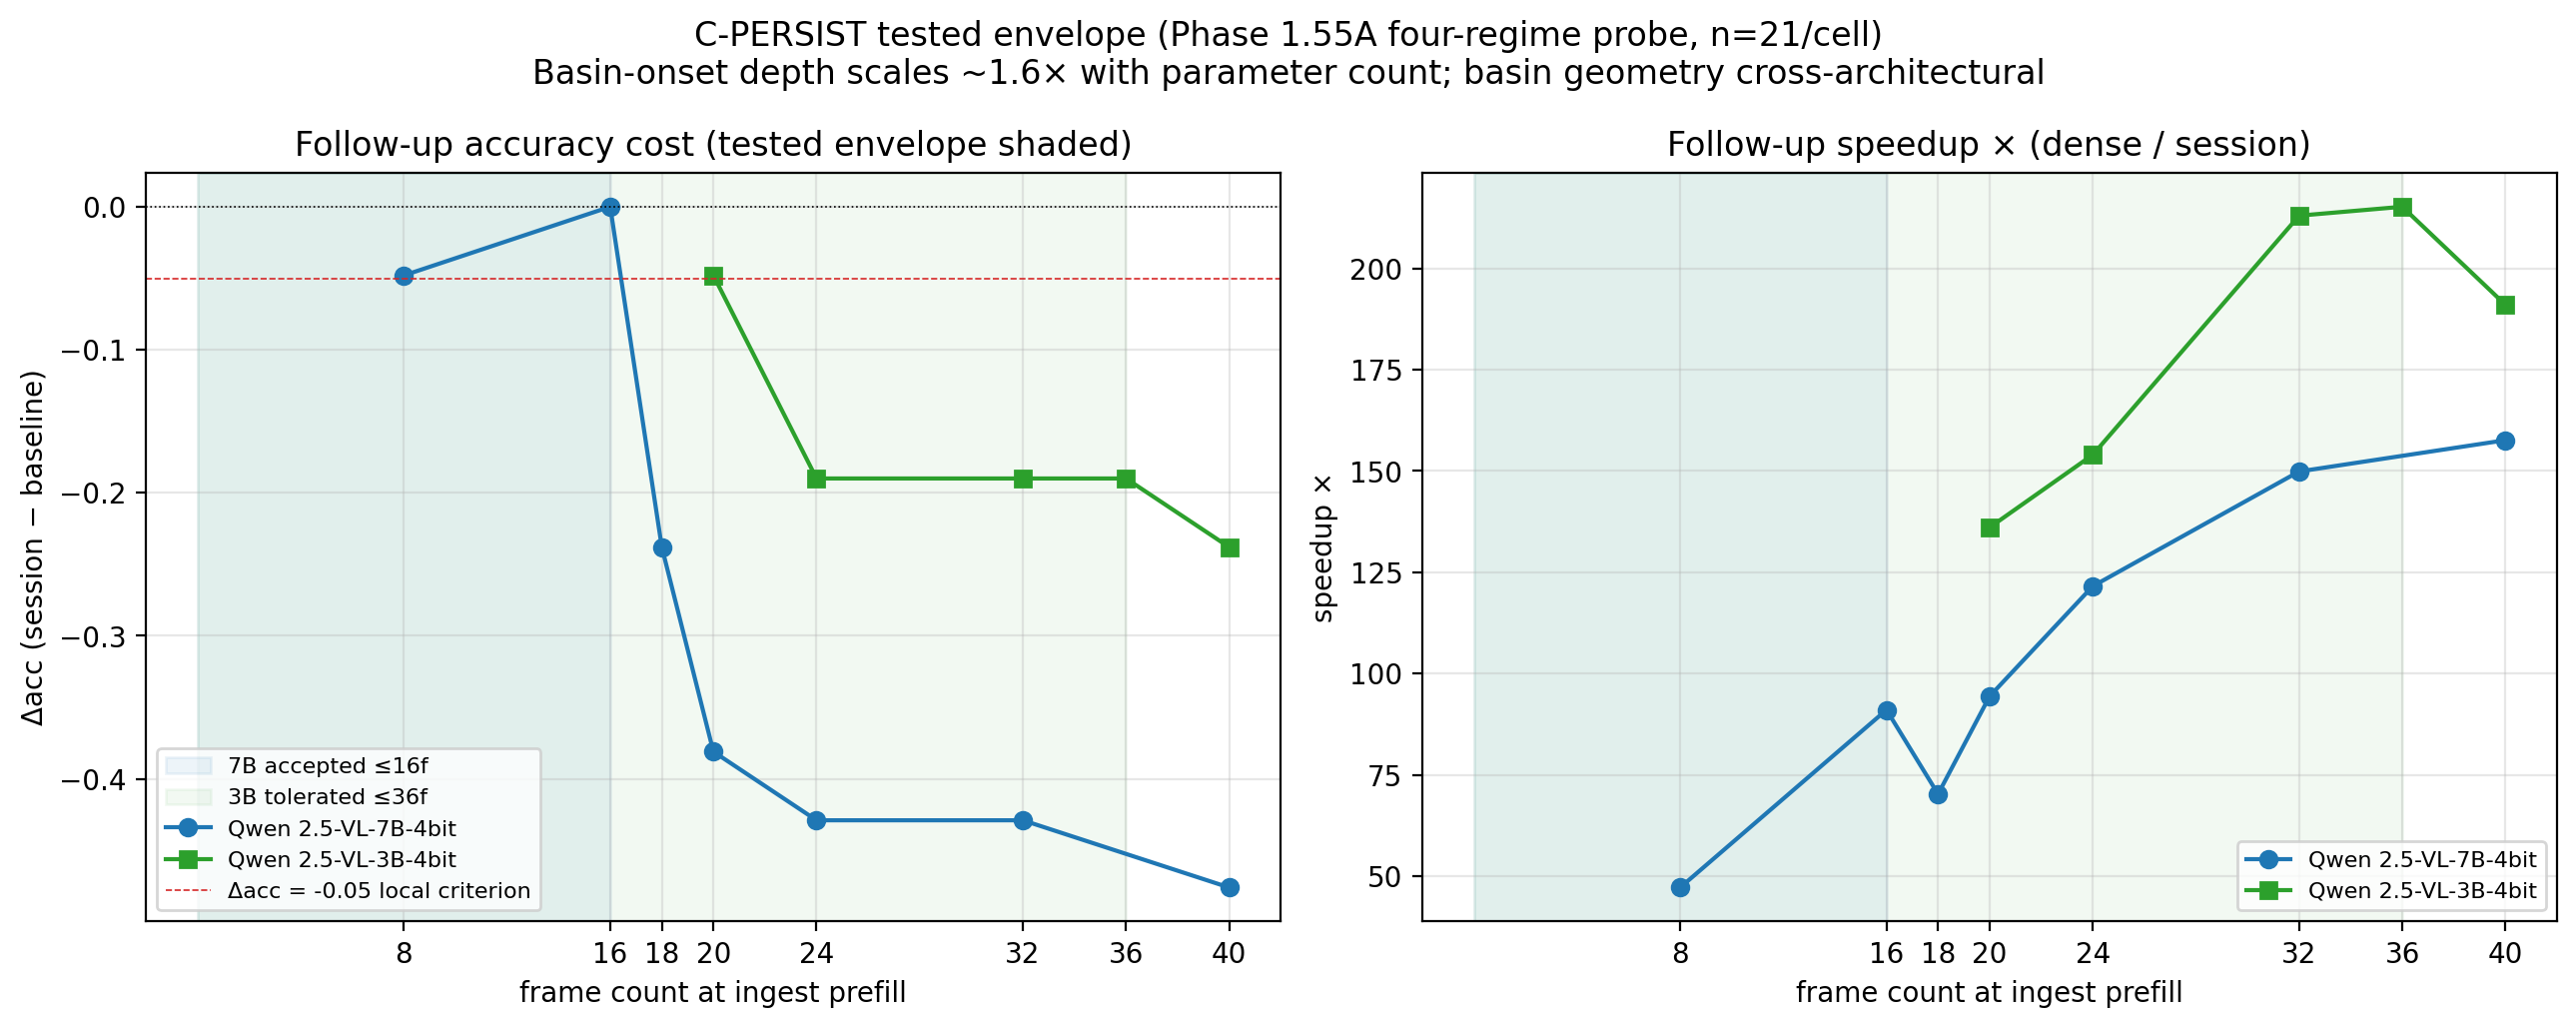
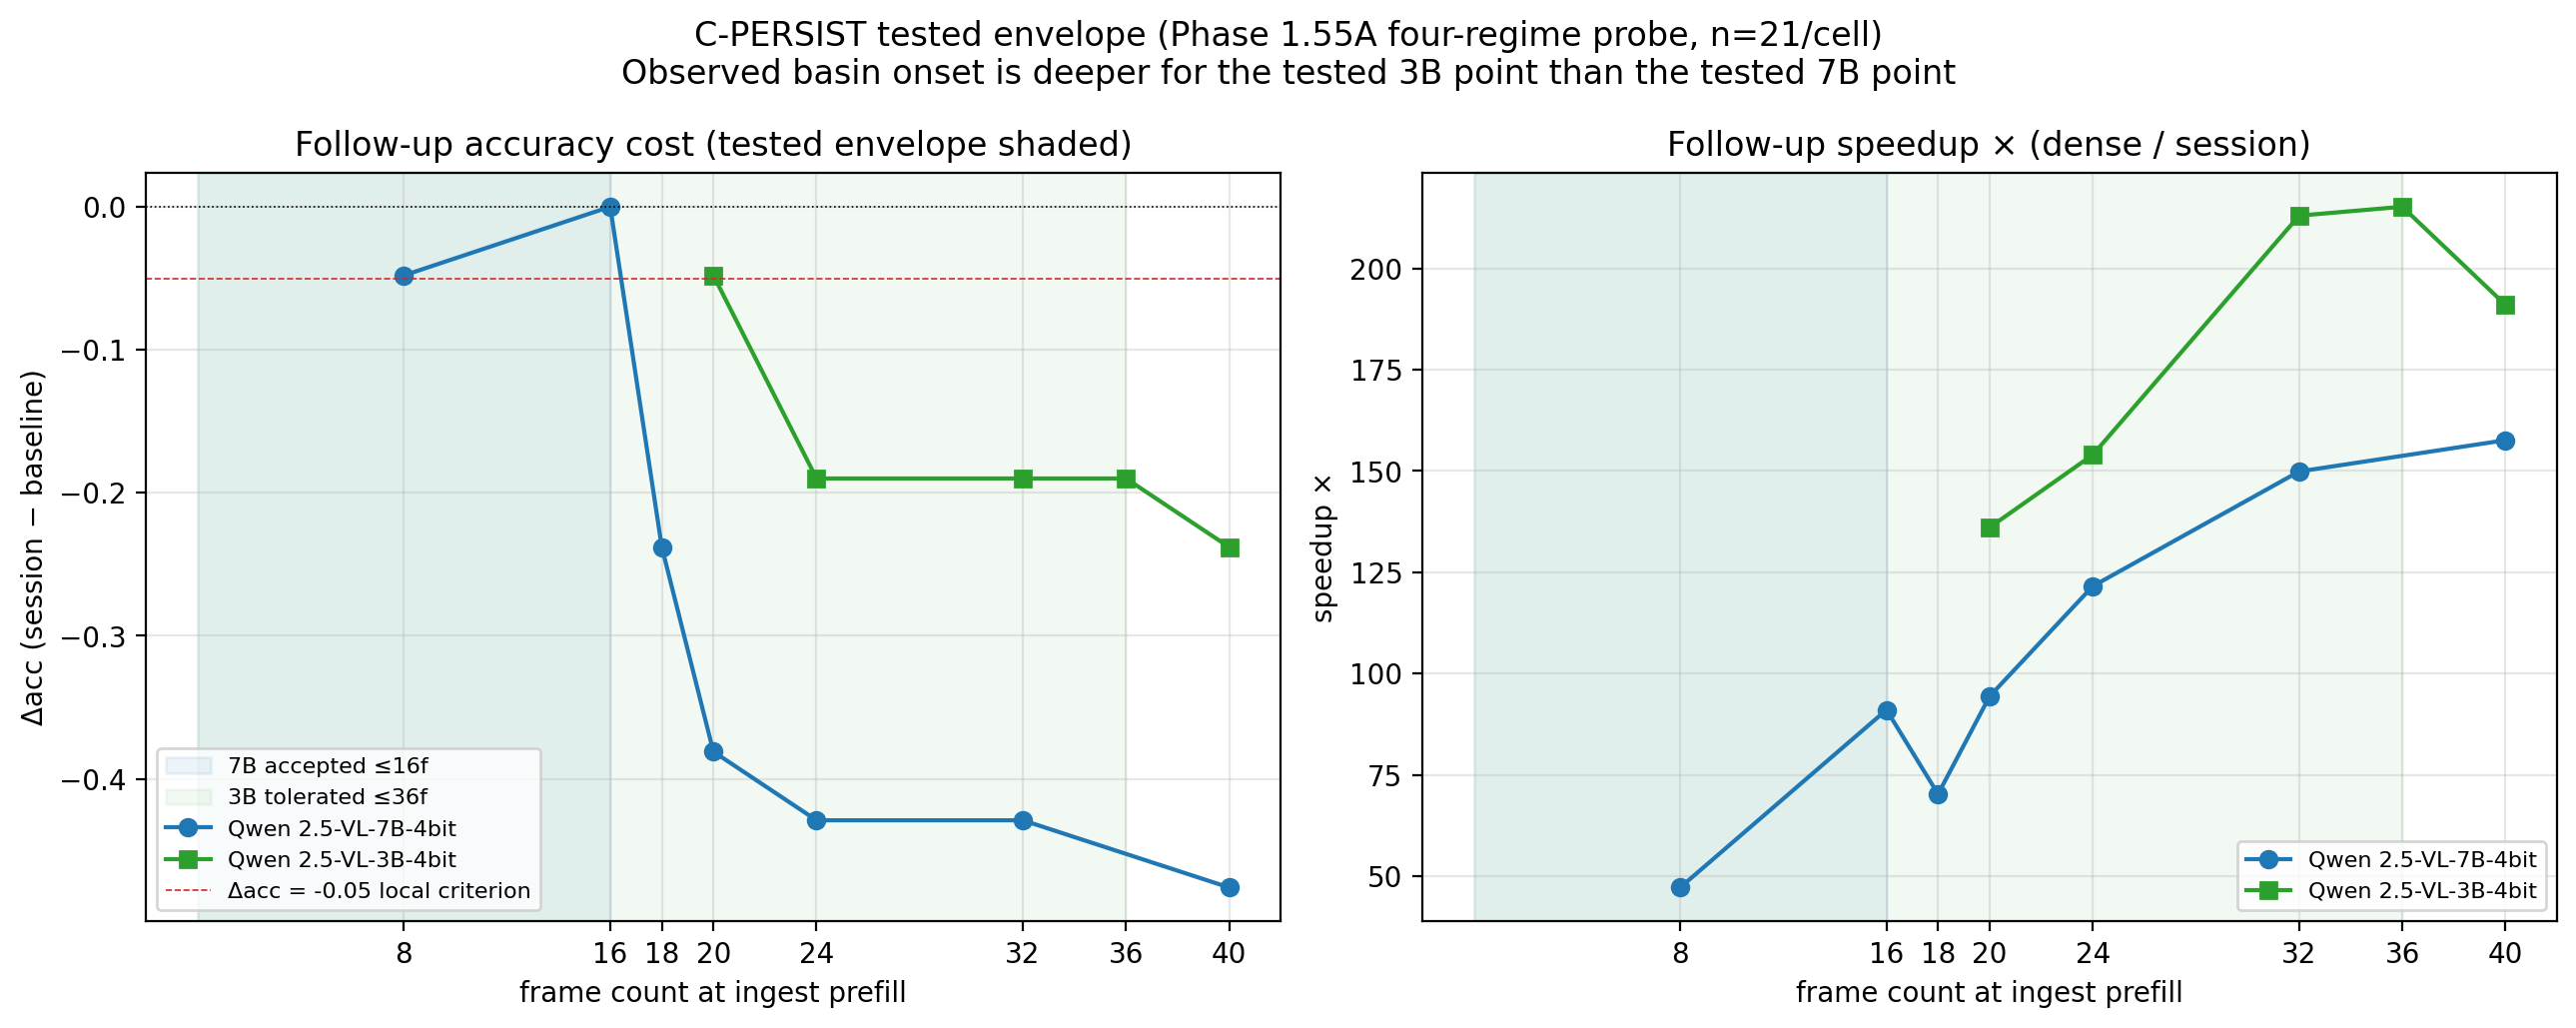
docs(paper): tighten review traceability gaps
Address the latest review pass by making C-PERSIST denominator phrasing consistent in section 7 and paper source docs, citing FrameFusion where it constrains token-reduction novelty, and updating HERMES to the ACL 2026 Main status reported by arXiv v3. Clarify that committed repo provenance records the manuscript-sync input tree rather than current HEAD, and mark the 1.63E sparse-ViT point as findings-note-backed until raw artifacts are imported for the frozen bundle. Regenerated the arXiv PDF and C-PERSIST safe-budget plot; verified with build.py, ruff check, ruff format --check, git diff --check, and mutool info showing a 40-page PDF.

Changed region(s): [[0.2171, 0.0622, 0.8065, 0.0933]]

diff --git a/paper/arxiv/sections/appendix_a_source_traceability.tex b/paper/arxiv/sections/appendix_a_source_traceability.tex
@@ -12,14 +12,18 @@ streaming and real-application section until artifact harmonization lands.
 not allowed into the default automated manuscript snapshot.
 
 This appendix is where that distinction becomes audit-friendly. The repo
-provenance table below records the current commit pins used by the manuscript
-sync; a \texttt{-dirty} suffix means this PDF is a working-tree draft, not a
-submission-frozen artifact bundle. Within the main text, numbers are written so
-they can be traced back to one phase note and one artifact family. When a
-result is excluded on provenance grounds, the paper says so explicitly. The
-best current example is the MVBench \texttt{sticky4} refinement: it is
-scientifically interesting, but the artifact remains provisional, so it stays
-supplementary until rerun clean.
+provenance table below records the commit pins observed by the manuscript sync
+step. Because this draft commits generated paper assets, the primary row can
+point to the pre-commit working-tree snapshot that produced the PDF; a
+\texttt{-dirty} suffix means the PDF is a working-tree draft, not a
+submission-frozen artifact bundle. The final release should regenerate this
+table from a clean tag. Within the main text, numbers are written so they can
+be traced back to one phase note and one artifact family. When a result is
+excluded or downgraded on provenance grounds, the paper says so explicitly. The
+best current examples are the MVBench \texttt{sticky4} refinement and the
+1.63E sparse-ViT 8f boundary: both are scientifically interesting, but the
+frozen artifact bundle still needs stable raw paths before either should be
+promoted beyond its current status.
 
 \begin{table}[H]
 \centering
@@ -38,7 +42,7 @@ supplementary until rerun clean.
 Asset & Claim / protocol & Evidence class & Source / hardware \\
 \midrule
 Headline table & regime headline cells; first-pass vision-pruning holdout plus after-ingest follow-up & local + tracked-upstream & Phases 1.51V and 1.55A/D/E/F/G/H/I; adaptive mechanism and stage-timing artifacts; Gemma/Qwen local stacks, MLX / M3 Air 16 GB \\
-C-CEILING figure & C-CEILING / C-VISION scatter-back validation; first-pass holdout, n=60 stacked-regime audit, and matched cross-arch probe & local + tracked-upstream & ceiling data JSON; local Gemma and local Qwen stacks plus tracked-upstream TOMATO rerun \\
+C-CEILING figure & C-CEILING / C-VISION scatter-back validation; first-pass holdout, n=60 stacked-regime audit, matched cross-arch probe, and 8f sparse-ViT boundary & local + tracked-upstream + findings-note boundary & ceiling data JSON; local Gemma and local Qwen stacks plus tracked-upstream TOMATO rerun; 1.63E 8f raw artifact import pending for the frozen bundle \\
 C-PERSIST figure & C-PERSIST tested envelope; after-ingest same-video follow-up & local & Phase 1.55A artifacts; Qwen 7B/3B-4bit, MLX / M3 Air 16 GB \\
 C-PERSIST repair & 20f/32f same-video selective re-prefill & local bounded recovery & Phases 1.55D/E/F/G/H/I plus adaptive mechanism and stage-timing artifacts; Qwen 7B-4bit, VideoMME short/medium/long + 32f short \\
 Routing frontier & sparse routing under dense backend & local & Phase 1.20/21/34/36 notes; Qwen 7B-4bit, MLX \\

diff --git a/paper/arxiv/sections/07_results_cross_architecture.tex b/paper/arxiv/sections/07_results_cross_architecture.tex
@@ -97,13 +97,13 @@ VideoMME 8f holdout & 0.154 & 0.413 & 1.068 & 1.113 & +4.5pp & clean local \\
 MVBench 8f holdout & 0.452 & 0.471 & 1.271 & 1.407 & +13.6pp & advisory local \\
 TOMATO 8f holdout & 0.384 & 0.350 & 1.155 & 1.194 & +3.9pp & tracked-upstream advisory \\
 Qwen VideoMME 8f dev & 0.103 & 0.398 & 1.043 & 1.044 & +0.1pp & matched cross-arch \\
-Qwen sparse-ViT 8f n=60 & 0.100 & 0.448 & 1.047 & 1.042 & -0.5pp & measured sparse, fidelity fail \\
+Qwen sparse-ViT 8f n=60 & 0.100 & 0.448 & 1.047 & 1.042 & -0.5pp & findings-note boundary, fidelity fail \\
 VideoMME n=60 composition audit & 0.063 & 0.430 & 1.028 & 1.042 & +1.4pp & composition null \\
 \bottomrule
 \end{tabularx}
 \end{table}
 
-Across the rendered nine-cell view, the share model stays predictive enough to
+Across the rendered ten-row view, the share model stays predictive enough to
 be useful and honest, but it is not a literal no-residual theorem. Advisory
 cells can sit above or below the prediction when non-vision timing, scheduler
 jitter, or thermal state moves with the run. The holdout spread is wider than
@@ -188,16 +188,16 @@ the repaired post-\(Q2\) cache state with \(K=0\).
 That rule now has breadth. Across 20f short, medium, and long VideoMME slices
 plus the 32f short slice, adaptive post-\(Q2\) repair has no observed paired
 choice or correctness drift on 93 paired queries, no observed pathological
-follow-up outputs, and 15.28--35.97$\times$ all-query median speedup
-(14.90--35.92$\times$ same-class follow-up speedup). The rule-of-three upper
+follow-up outputs, and 14.90--35.92$\times$ same-class follow-up speedup
+(15.28--35.97$\times$ cold-all-query / repaired-follow-up ratio). The rule-of-three upper
 bound on a query-level unseen paired-drift rate is about 3.2\%. At the
 session level the conservative count is 0/31 sessions with any paired drift,
 or a rule-of-three bound of about 9.7\%. Each tested session has two follow-up
 questions after the cold first query; many-turn conversational stability
 remains a separate stress test. The 32f short cell is the largest
-local efficiency point in the draft at 35.97$\times$ all-query median speedup,
-but the reason is not magic: Q3 inherits the repaired state instead of paying
-another newest-frame re-prefill.
+local efficiency point in the draft at 35.92$\times$ same-class follow-up
+speedup (35.97$\times$ cold-all-query ratio), but the reason is not magic: Q3
+inherits the repaired state instead of paying another newest-frame re-prefill.
 
 A timing attribution on the existing short-slice artifacts makes that concrete.
 On the seven paired Q3 follow-ups, fixed \(K=1\) has to re-prefill the

diff --git a/paper/arxiv/scripts/sync_sources.py b/paper/arxiv/scripts/sync_sources.py
@@ -1736,7 +1736,12 @@ def _write_repo_provenance_table(
     lines = [
         r"\begin{table}[H]",
         r"\centering",
-        r"\caption{Repo provenance for the current manuscript sync.}",
+        (
+            r"\caption{Repo provenance captured by the manuscript sync step. "
+            r"For draft PDFs committed after generation, the primary row can "
+            r"point to the pre-commit working-tree snapshot; regenerate from a "
+            r"clean release tag for the frozen artifact bundle.}"
+        ),
         r"\label{tab:repo-provenance}",
         r"\begin{tabular}{lll}",
         r"\toprule",

diff --git a/paper/arxiv/sections/03_related_work.tex b/paper/arxiv/sections/03_related_work.tex
@@ -19,7 +19,8 @@ the picture.
 
 Another family reduces visual cost after tokens already exist. FastV
 \cite{fastv}, FastVID \cite{fastvid}, FlashVID \cite{flashvid}, VisionZip
-\cite{visionzip}, SparseVLM \cite{sparsevlm}, VScan \cite{vscan}, STTM
+\cite{visionzip}, FrameFusion \cite{framefusion}, SparseVLM
+\cite{sparsevlm}, VScan \cite{vscan}, STTM
 \cite{sttm}, SparseVILA \cite{sparsevila}, and LLaVA-PruMerge
 \cite{llavaprumerge} prune, retrieve, or merge visual tokens using
 attention-derived, density, query-aware, or feature-similarity signals. ToMe

diff --git a/paper/arxiv/sections/90_references.tex b/paper/arxiv/sections/90_references.tex
@@ -101,7 +101,7 @@ JPEG. \emph{JPEG XE activity status}. \url{https://jpeg.org/items/20241121_jpeg_
 \bibitem{hermes}
 Haowei Zhang, Shudong Yang, Jinlan Fu, See-Kiong Ng, and Xipeng Qiu.
 \emph{HERMES: KV Cache as Hierarchical Memory for Efficient Streaming Video
-Understanding}. arXiv:2601.14724, 2026.
+Understanding}. ACL 2026 Main; arXiv:2601.14724.
 
 \bibitem{llavaprumerge}
 Yuzhang Shang, Mu Cai, Bingxin Xu, Yong Jae Lee, and Yan Yan.

diff --git a/scripts/plot_c_persist_safe_budget.py b/scripts/plot_c_persist_safe_budget.py
@@ -141,7 +141,7 @@ def plot() -> None:
 
     fig.suptitle(
         "C-PERSIST tested envelope (Phase 1.55A four-regime probe, n=21/cell)\n"
-        "Basin-onset depth scales ~1.6× with parameter count; basin geometry cross-architectural",
+        "Observed basin onset is deeper for the tested 3B point than the tested 7B point",
         fontsize=12,
     )
     fig.tight_layout()

diff --git a/research/experiments/registry.md b/research/experiments/registry.md
@@ -602,7 +602,7 @@ authoritative in the per-phase notes under
   notes: Original prereg mistakenly attributed Sam's MEASURED 2.13.3 persistent-KV result as a Codex hypothesis, and gated on an mlx-vlm fork that turned out to already be upstream (PromptCacheState + find_prefix_length). Split 2026-04-19 into 1.55A (reproduction of Sam 2.13.3 on Qwen 7B/M3 Air) and 1.55B (composition with 1.54 decode accel — deferred).
 
 - phase_id: 1.55A
-  status: completed/CLOSED (8f + 16f + 18f + 20f + 24f + 32f frame-scaling on 7B + 3B 20f matched + 3B 24f shifted-ramp + 3B 32f plateau-candidate + 3B 36f PRE-BASIN PLATEAU EXTENDED + 3B 40f LATENT BASIN EARNED + **7B 40f BASIN-SYMMETRY EARNED** + 7B/20f temperature probe EARNED H-distribution-collapse + 3B/20f temperature probe EARNED H2-3B-temp.null-robust + **3B/40f temperature probe HYBRID (basin partially dispersed, sampler-invariance is architecture-conditional)**; three-dimensional mechanism decomposition REVISED 2026-04-20 from saturation-ceiling to shifted-onset-same-basin AND **SYMMETRICALLY CONFIRMED** 2026-04-20 on 7B at 2× basin-onset depth: threshold onset capacity-modulated, **basin-onset depth architecture-dependent** (7B ~8k tokens; 3B ~16k tokens, ~1.6× scaling), **basin geometry architecture-conditional under sampling** — 7B basin sampler-invariant at both 20f and 40f; 3B basin at 40f is sampler-dispersible (4/14 → 1/14 novel) but dispersed mass returns only to the pre-basin plateau, not to baseline; phase closes; reopen conditions (f) RETIRED and (h) CLOSED with HYBRID outcome)
+  status: completed/CLOSED (8f + 16f + 18f + 20f + 24f + 32f frame-scaling on 7B + 3B 20f matched + 3B 24f shifted-ramp + 3B 32f plateau-candidate + 3B 36f PRE-BASIN PLATEAU EXTENDED + 3B 40f LATENT BASIN EARNED + **7B 40f BASIN-SYMMETRY EARNED** + 7B/20f temperature probe EARNED H-distribution-collapse + 3B/20f temperature probe EARNED H2-3B-temp.null-robust + **3B/40f temperature probe HYBRID (basin partially dispersed, sampler-invariance is architecture-conditional)**; three-dimensional mechanism decomposition REVISED 2026-04-20 from saturation-ceiling to shifted-onset-same-basin AND **SYMMETRICALLY CONFIRMED** 2026-04-20 on 7B at 2× basin-onset depth: threshold onset capacity-modulated, **basin-onset depth architecture-dependent** (7B ~8k tokens; 3B ~16k tokens in the tested Qwen points; two-size evidence, not a scaling law), **basin geometry architecture-conditional under sampling** — 7B basin sampler-invariant at both 20f and 40f; 3B basin at 40f is sampler-dispersible (4/14 → 1/14 novel) but dispersed mass returns only to the pre-basin plateau, not to baseline; phase closes; reopen conditions (f) RETIRED and (h) CLOSED with HYBRID outcome)
   authoritative_note: research/experiments/2026/2026-04-19-phase-1_55A-persistent-kv-findings.md + research/experiments/2026/2026-04-19-phase-1_55A-16f-frame-scaling-findings.md + research/experiments/2026/2026-04-19-phase-1_55A-18f-frame-scaling-findings.md + research/experiments/2026/2026-04-19-phase-1_55A-20f-frame-scaling-findings.md + research/experiments/2026/2026-04-19-phase-1_55A-24f-frame-scaling-findings.md + research/experiments/2026/2026-04-19-phase-1_55A-32f-frame-scaling-findings.md + research/experiments/2026/2026-04-19-phase-1_55A-3b-crossarch-findings.md + research/experiments/2026/2026-04-20-phase-1_55A-3b-24f-boundary-findings.md + research/experiments/2026/2026-04-20-phase-1_55A-3b-32f-saturation-findings.md + research/experiments/2026/2026-04-20-phase-1_55A-7b-20f-temperature-findings.md + research/experiments/2026/2026-04-20-phase-1_55A-3b-20f-temperature-findings.md + research/experiments/2026/2026-04-20-phase-1_55A-3b-40f-deeper-plateau-findings.md + research/experiments/2026/2026-04-20-phase-1_55A-7b-40f-symmetry-findings.md + research/experiments/2026/2026-04-20-phase-1_55A-3b-36f-interpolation-findings.md + research/experiments/2026/2026-04-20-phase-1_55A-3b-40f-temperature-findings.md
   authoritative_artifacts:
     - research/experiments/2026/artifacts/loop_queue_20260419_155108/phase1_55A_persistent_kv_qwen/summary.json
@@ -804,8 +804,8 @@ authoritative in the per-phase notes under
     architectural-ceiling to shifted-onset:** 3B is NOT on a
     saturation plateau; the 24f/32f "plateau" was pre-onset, and
     basin emergence appears at ~16k prefill tokens (40f). 3B and
-    7B share the same basin geometry; onset depth scales ~1.6×
-    with parameter count (7B ~8k at 20f; 3B ~16k at 40f). The
+    7B share the same basin geometry; onset depth is deeper on the tested 3B
+    point than on the tested 7B point (7B ~8k at 20f; 3B ~16k at 40f). The
     3-D decomposition's dimension 2 is relabelled from
     "saturation ceiling = architecture-specific" to "**basin-
     onset depth = architecture-dependent; basin geometry =
@@ -1130,15 +1130,15 @@ authoritative in the per-phase notes under
   notes: Track B scope is vision-tower-only. It hard-gates on both real vision-stage reduction and positive end-to-end speedup so a dense-stage-share null cannot be accidentally promoted as a headline.
 
 - phase_id: 1.63E
-  status: preregistered / ready-to-run
-  authoritative_note: research/experiments/2026/2026-04-27-phase-1_63E-track-b-frame-scaling-prereg.md
+  status: partial findings-note landed for 8f; raw artifact import pending; higher frame counts pending
+  authoritative_note: research/experiments/2026/2026-04-27-phase-1_63E-track-b-frame-scaling-prereg.md + research/experiments/2026/2026-04-27-phase-1_63E-8f-findings.md
   authoritative_artifacts: []
-  current_best_policy: pending; Qwen compact post-layer L=2 kr=0.50 Track B sparse-ViT at 8f/16f/20f/32f
+  current_best_policy: "Qwen compact post-layer L=2 kr=0.50 Track B sparse-ViT at 8f: ceiling explained (1.042x observed vs 1.047x predicted) and real vision work skipped, but H_fidelity FAILS at -0.067 aggregate; 16f/20f/32f remain pending"
   supersedes: []
   paper_relevance: primary (tests whether C-CEILING predicts measured Track B wall-clock across frame budgets)
-  prereg_outcome: pending
+  prereg_outcome: "8f partial: H_sparse_vision/H_e2e_positive/H_ceiling_explained PASS, H_fidelity FAIL; higher frame-count sweep pending"
   runtime_estimate: ~7.5-9.5h
-  notes: Default wrapper recomputes 8f as a normal gated cell rather than treating it as a non-veto reference; override PHASE1_63E_FRAME_COUNTS only for intentional resume/debug.
+  notes: Default wrapper recomputes 8f as a normal gated cell rather than treating it as a non-veto reference; override PHASE1_63E_FRAME_COUNTS only for intentional resume/debug. The 8f result is currently findings-note-backed in this checkout; import or link raw paired artifacts before using it as a frozen submission artifact.
 
 - phase_id: 1.63G
   status: preregistered / ready-to-run

diff --git a/paper/framing.md b/paper/framing.md
@@ -34,8 +34,8 @@ It is NOT the place for raw experimental detail. Evidence lives in:
 
 Last material update: 2026-04-27 (adaptive C-PERSIST breadth landed across
 20f short/medium/long plus 32f short at n=93 / 0 observed paired drift,
-15.28×--35.97× all-query speedup, and 14.90×--35.92× same-class follow-up
-speedup; stage-timing attribution shows adaptive Q3 avoids the fixed-K last-frame
+14.90×--35.92× same-class follow-up speedup, and a 15.28×--35.97×
+cold-all-query ratio; stage-timing attribution shows adaptive Q3 avoids the fixed-K last-frame
 re-prefill; 1.30AC/AD close the cache-reuse/composition boundary as same net
 aggregate loss through different any-paired-drift sets).
 
@@ -122,8 +122,8 @@ duration-conditional partial reproduction + 1.55D frontier-partial):
    not to baseline). The repair story is now broad on Qwen: fixed K=1
    selective re-prefill gives 0/93 observed paired drift at 9.48×--20.37×
    same-class follow-up speedup, while adaptive post-Q2-state reuse gives
-   0/93 observed paired drift at 15.28×--35.97× all-query speedup
-   (14.90×--35.92× same-class). Stage timing explains the adaptive gain:
+   0/93 observed paired drift at 14.90×--35.92× same-class follow-up speedup
+   (15.28×--35.97× cold-all-query ratio). Stage timing explains the adaptive gain:
    Q3 reuses the post-Q2 cache and avoids the fixed-K last-frame re-prefill.
    Tested deployment-regime table in [`paper/claim-matrix.md`](claim-matrix.md)
    provides paper-grade practitioner guidance; paired-fidelity boundary result

diff --git a/paper/publishability-status.md b/paper/publishability-status.md
@@ -63,8 +63,8 @@ contributions (all landed before Codex round-26 2026-04-21):
   drift on n=93 across 20f short/medium/long plus 32f short at
   9.48×–20.37× same-class median follow-up speedup. Phase 1.55F breadth is now
   the stronger adaptive headline: 0/93 observed paired drift at
-  15.28×–35.97× all-query speedup and 14.90×–35.92× same-class follow-up
-  speedup.
+  14.90×–35.92× same-class follow-up speedup and a 15.28×–35.97×
+  cold-all-query ratio.
 - **C-VISION — vision-tower pruning with scatter-back ceiling**
   (claim 15). `E2E ≤ 1/(1 − V_share × V_red)` on Gemma 4-E4B-4bit
   validated across **6 core scatter points** (4 Gemma dev + 1 matched
@@ -222,7 +222,7 @@ measured-sparse-execution validation for the measured wall-clock ceiling."
 | G | **Dense wall-clock baseline captured on M3 Air 16GB.** | TOMATO n=10 mc_scoring at 8 frames, 560×560: 60.1 s/item median; prefill 72% of wall time, vision encode 22%, decode 6%; peak 6.87 GB. | `results/track_b/tomato_mc_n10.json`; phase 1.50 note |
 | H | **Hard ceiling for vision-cache-only sparse execution: 22% end-to-end speedup at this geometry.** | Arithmetic: vision encode is 22% of per-item wall time, so any method that only skips vision work caps at 22% end-to-end before prefill savings. | Derived from G; explicit in phase 1.50 §Paper implications |
 | R | **1.51V vision-tower pruning on Gemma 4-E4B-4bit (MLX), dev n=30 at L=2 kr_V=0.50 thermally paired:** VideoMME 1.08× (8f) / 1.12× (16f), MVBench **1.21×**, TOMATO **1.24×**; dev V-red lands around 40% across the three benchmarks, but holdout spread is wider and should be described more softly in the manuscript. Scatter-back ceiling `1/(1 − V_share × V_red)` predicts E2E within 2pp on the main dev cells. **32f frame-scaling probe:** V_share = 31.0% at 32f (continues 15.2% → 24.3% → 31.0% monotone), but thermal pairing FAILS on M3 16 GB at 32f (decode Δ = +7.6%); observed cross-run 0.94× is thermally confounded; charitable ceiling prediction 1.14×, sub-threshold. **Holdout replication (EXP15/16, VideoMME holdout v1 n=30 disjoint):** stacked-regime partial confirmation — V+novelty kr=0.3 on V-patched baseline stacks at 1.064× within-run (thermally clean), 1.127× cross-session (dirty), agreement=0.667, acc Δ=-0.033. LLM-side ceiling `1/(1 − generate_share × generate_reduction) = 1.064×` matches observed to 0.1pp (fifth ceiling regime). **V-only UNPATCHED-vs-PATCHED holdout status:** VideoMME 8f **clean** at 1.113× (EXP17/18); MVBench 8f **advisory** at 1.407× (EXP19/20); TOMATO 8f **earned-advisory** at 1.194× from the session-5 rerun (EXP23/24). | `research/experiments/2026/2026-04-21-phase-1_51V-expansion-findings.md`; `2026-04-21-phase-1_51V-32f-probe-findings.md`; `2026-04-21-phase-1_51V-holdout-findings.md`; `artifacts/phase1_51V_expansion/exp{01..12}_*_summary.json`; `artifacts/phase1_51V_session2/exp{13..16}_*_summary.json`; `research/experiments/2026/2026-04-21-phase-1_51V-session5-findings.md` |
-| O | **Persistent-KV follow-up speedup 47×/91×/70×/94×/122×/150× at 8f/16f/18f/20f/24f/32f on Qwen 7B-4bit; reproduces Sam §2.13.3 AND confirms prefill-dominance on a six-point scaling curve. Fidelity preservation is bounded by a threshold-and-basin story — clean at ≤ ~6.5k tokens (16f, Δacc=0); mixed basin at ~7.3k (18f, Δacc=−0.24); dominant basin at ~8.1k (20f, Δacc=−0.38); single-token attractor by ~9.7k (24f, Δacc=−0.43). Cross-architecture probes revise the older 3B “saturation ceiling” readout: 24f/32f/36f are now treated as a pre-basin plateau at Δacc≈−0.19, with 3B basin onset bracketed to (36f, 40f]. Cache-reuse damage decomposes into threshold onset, basin-onset depth, and basin geometry. Selective re-prefill v2 is now the local recovery frontier: fixed K=1 shows no observed paired drift on n=93 across 20f short/medium/long plus 32f short at 9.48×–20.37× same-class speedup, while adaptive post-Q2-state reuse lands 0/93 paired drift at 15.28×–35.97× all-query speedup and 14.90×–35.92× same-class speedup. Stage timing shows adaptive Q3 gets its extra lift by reusing the post-Q2-repaired cache and avoiding fixed-K's repeated last-frame re-prefill. The naive adaptive omission Q2=K1/Q3=K0 fails on Q3, establishing cache-source inheritance as the mechanism.** | Detailed historical artifacts remain in the phase 1.55A/1.55D/1.55E/1.55F/1.55G/1.55H/1.55I and adaptive-mechanism findings docs and should be preferred over this compressed inventory when writing final manuscript prose. | `research/experiments/2026/2026-04-19-phase-1_55A-persistent-kv-findings.md`; `.../2026-04-24-phase-1_55D-selective-reprefill-v2-k1-findings.md`; `.../2026-04-24-phase-1_55E-q2-mandatory-q3-optional-findings.md`; `.../2026-04-25-phase-1_55F-q3-post-q2-state-findings.md`; `.../2026-04-25-phase-1_55G-k1-medium-replication-findings.md`; `.../2026-04-25-phase-1_55H-k1-32f-short-probe-findings.md`; `.../2026-04-25-phase-1_55I-k1-long-replication-findings.md`; `.../2026-04-27-adaptive-mechanism-queue-findings.md` |
+| O | **Persistent-KV follow-up speedup 47×/91×/70×/94×/122×/150× at 8f/16f/18f/20f/24f/32f on Qwen 7B-4bit; reproduces Sam §2.13.3 AND confirms prefill-dominance on a six-point scaling curve. Fidelity preservation is bounded by a threshold-and-basin story — clean at ≤ ~6.5k tokens (16f, Δacc=0); mixed basin at ~7.3k (18f, Δacc=−0.24); dominant basin at ~8.1k (20f, Δacc=−0.38); single-token attractor by ~9.7k (24f, Δacc=−0.43). Cross-architecture probes revise the older 3B “saturation ceiling” readout: 24f/32f/36f are now treated as a pre-basin plateau at Δacc≈−0.19, with 3B basin onset bracketed to (36f, 40f]. Cache-reuse damage decomposes into threshold onset, basin-onset depth, and basin geometry. Selective re-prefill v2 is now the local recovery frontier: fixed K=1 shows no observed paired drift on n=93 across 20f short/medium/long plus 32f short at 9.48×–20.37× same-class speedup, while adaptive post-Q2-state reuse lands 0/93 paired drift at 14.90×–35.92× same-class speedup and a 15.28×–35.97× cold-all-query ratio. Stage timing shows adaptive Q3 gets its extra lift by reusing the post-Q2-repaired cache and avoiding fixed-K's repeated last-frame re-prefill. The naive adaptive omission Q2=K1/Q3=K0 fails on Q3, establishing cache-source inheritance as the mechanism.** | Detailed historical artifacts remain in the phase 1.55A/1.55D/1.55E/1.55F/1.55G/1.55H/1.55I and adaptive-mechanism findings docs and should be preferred over this compressed inventory when writing final manuscript prose. | `research/experiments/2026/2026-04-19-phase-1_55A-persistent-kv-findings.md`; `.../2026-04-24-phase-1_55D-selective-reprefill-v2-k1-findings.md`; `.../2026-04-24-phase-1_55E-q2-mandatory-q3-optional-findings.md`; `.../2026-04-25-phase-1_55F-q3-post-q2-state-findings.md`; `.../2026-04-25-phase-1_55G-k1-medium-replication-findings.md`; `.../2026-04-25-phase-1_55H-k1-32f-short-probe-findings.md`; `.../2026-04-25-phase-1_55I-k1-long-replication-findings.md`; `.../2026-04-27-adaptive-mechanism-queue-findings.md` |
 
 ### What remains BLOCKED before venue submission
 
@@ -288,7 +288,7 @@ runnable tonight vs. impl-gated.
 |------|-------|---------|-------|----------------|
 | should-do #3 | **1.51V Qwen cross-arch probe** (L=2, kr=0.50, VideoMME 8f n=30 thermally paired, 2 arms) | **CLOSED 2026-04-23** | Qwen 2.5-VL-7B-4bit | **landed** — `V_red = 0.398`, `E2E = 1.044× observed vs 1.043× predicted`, aggregate `Δacc = −0.033`; C-VISION upgrades to two-architecture mechanism evidence |
 | should-do #4 | Local paired streaming-protocol reproduction (1.30) + root-cause decomposition | CLOSED-BOUNDARY 2026-04-26 for current policy | Qwen 2.5-VL-7B-Instruct-4bit (driver hard-fails on non-Qwen at `run_phase1_30_sam_streaming.py:303-308`) | 1.30W remains the best landed bridge: paired cold 0.561 / streaming 0.503 (Δacc = −0.0585) / 2.7869× with aggregate Q0 parity and clean format, but still below the `3.0×` rescue floor. 1.30X's Δacc=0.0 / 3.078× point is oracle-only. 1.30Z/AB falsify every tested long-Q0 keep rate from 0.67 through 0.90; high keep rates restore aggregate Q0 accuracy but still lose follow-ups by ~19pp. Instrumentation proves follow-up vision pruning is inactive in this family (`vision_pruning_active_fraction=0.0`, all follow-up image tokens cache-served); describe it as Q0 admission + K-cache reuse. |
-| should-do #5 | **1.55 selective re-prefill frontier** (recover Δacc at 20f/32f while clawing back speed) | Breadth landed; many-turn / sampler / cross-architecture follow-ups remain | Qwen 2.5-VL-7B-4bit | **Fixed K=1 now has broad local evidence** — no observed paired drift on n=93 across 20f short/medium/long plus 32f short (one-sided rule-of-three upper bound ≈3.2%), 9.48×–20.37× same-class median follow-up speedup, and 0/62 pathological follow-up outputs. **Adaptive post-Q2-state reuse is now the headline repair lane** — 0/93 paired drift, 15.28×–35.97× all-query speedup, 14.90×–35.92× same-class follow-up speedup. Stage timing shows adaptive Q3 avoids fixed-K's repeated last-frame re-prefill. **1.55E (`Q2=K1`, `Q3=K0`)** remains the bounded negative that proves cache-source inheritance is the mechanism. **1.55B** remains the separate persistent-KV × 1.54 composition phase. |
+| should-do #5 | **1.55 selective re-prefill frontier** (recover Δacc at 20f/32f while clawing back speed) | Breadth landed; many-turn / sampler / cross-architecture follow-ups remain | Qwen 2.5-VL-7B-4bit | **Fixed K=1 now has broad local evidence** — no observed paired drift on n=93 across 20f short/medium/long plus 32f short (one-sided rule-of-three upper bound ≈3.2%), 9.48×–20.37× same-class median follow-up speedup, and 0/62 pathological follow-up outputs. **Adaptive post-Q2-state reuse is now the headline repair lane** — 0/93 paired drift, 14.90×–35.92× same-class follow-up speedup, and a 15.28×–35.97× cold-all-query ratio. Stage timing shows adaptive Q3 avoids fixed-K's repeated last-frame re-prefill. **1.55E (`Q2=K1`, `Q3=K0`)** remains the bounded negative that proves cache-source inheritance is the mechanism. **1.55B** remains the separate persistent-KV × 1.54 composition phase. |
 | should-do #6 | **1.58 bf16 KV control at 20f** (discriminate quantization vs attention-OOD) | ~3.5-4 h (bf16 8f n=30 + bf16 16f n=30) | Qwen 2.5-VL-7B bf16 | **wrapper-landed; preflight still blocks execution** — `scripts/run_phase1_58_bf16_control.sh` + analyzer landed, but the local bf16 checkpoint is absent and the current 16 GB laptop plan caps autonomous runs near `10 GB` RSS, well below the prereg's looser `<14 GB` feasibility band |
 | should-do #8 | **1.29 codec-native bridge (reframed)** | landed semantically; slow offline extraction | Qwen 2.5-VL-7B-4bit | **planner-substitution evidence landed** — MAX-over-span sparse sampling is HARD-FALSIFIED, while the continuous-score redesign reaches codec-dense agreement 1.000 on VideoMME dev all-duration n=30 with zero aggregate accuracy delta and zero parse failures. Later calibration-mode and calibration-source ablations are neutral on the local slices we ran. This is not a latency claim: offline codec extraction totals 7290s; the remaining gate is streaming decoder integration / native-rate systems evaluation. |
 | future | **1.60 scroll/pan subset** (20 items stratified by scroll intensity, L=2 kr=0.50 paired) | n/a on VideoMME; ~70-90 min after a real subset exists | Gemma 4-E4B-4bit or matched C-VISION stack | **closed as natural-VideoMME corpus limitation** — wider 60-item VideoMME scan found 0/60 items above `shifted_fraction >= 0.30` (max 0.125), so this only reopens with EgoSchema/EPIC-Kitchens/Ego4D or a labeled synthetic scroll/pan set |

diff --git a/paper/abstract.md b/paper/abstract.md
@@ -40,9 +40,9 @@ still tolerated 8 f point; 3B-4bit stays bounded through 36 frames /
 14.5 k prefill tokens at a Δacc = −0.19 pre-basin plateau. Outside the
 envelope, a narrow soft
 transition exits into a non-letter-attractor basin; basin-onset depth
-scales ~1.6× with parameter count and sampler-side intervention is
-architecture-conditional (sampler-invariant at 7 B; sampler-dispersible
-at 3 B only back to the pre-basin plateau). Paired follow-up-query
+is deeper on the tested Qwen 3B point than on the tested Qwen 7B point, and
+sampler-side intervention is architecture-conditional (sampler-invariant at
+7 B; sampler-dispersible at 3 B only back to the pre-basin plateau). Paired follow-up-query
 latency, not first-query latency, is the right reporting unit for
 conversational deployment.
 

diff --git a/paper/intro.md b/paper/intro.md
@@ -94,8 +94,8 @@ architecturally bounded and characterized:
   → 1/14) but returns only to the pre-basin plateau, not to baseline
   — sampler-invariance is an architecture-conditional property, not
   a universal rescue.
-- **Basin-onset depth scales ~1.6× with parameter count** (7 B onset
-  ~16–20 f; 3 B onset ~36–40 f). The basin geometry — non-letter
+- **Basin-onset depth is deeper on the tested Qwen 3B point than on the tested
+  Qwen 7B point** (7 B onset ~16–20 f; 3 B onset ~36–40 f). The basin geometry — non-letter
   attractor emergence, not a random letter flip — is cross-
   architectural and appears at 1/21 signature on all four probes.
 - **Gemma 4-E4B-4bit** does not expose the persistent-KV path under

diff --git a/paper/priority.md b/paper/priority.md
@@ -27,8 +27,8 @@ which evidence class proves each point.
 
 Narrative update 2026-04-27: adaptive C-PERSIST breadth is no longer pending.
 It is the current follow-up-reuse headline: n=93 / 0 observed paired drift
-across 20f short/medium/long plus 32f short, 15.28×--35.97× all-query speedup,
-and 14.90×--35.92× same-class follow-up speedup. Fixed K=1 remains the simple
+across 20f short/medium/long plus 32f short, 14.90×--35.92× same-class
+follow-up speedup, and a 15.28×--35.97× cold-all-query ratio. Fixed K=1 remains the simple
 no-coordination baseline. The 1.30AC/AD family is now a negative composition
 boundary: cache reuse preserves speed but drifts, cache invalidation forces
 follow-up V-pruning but kills speed, and both land at the same net aggregate